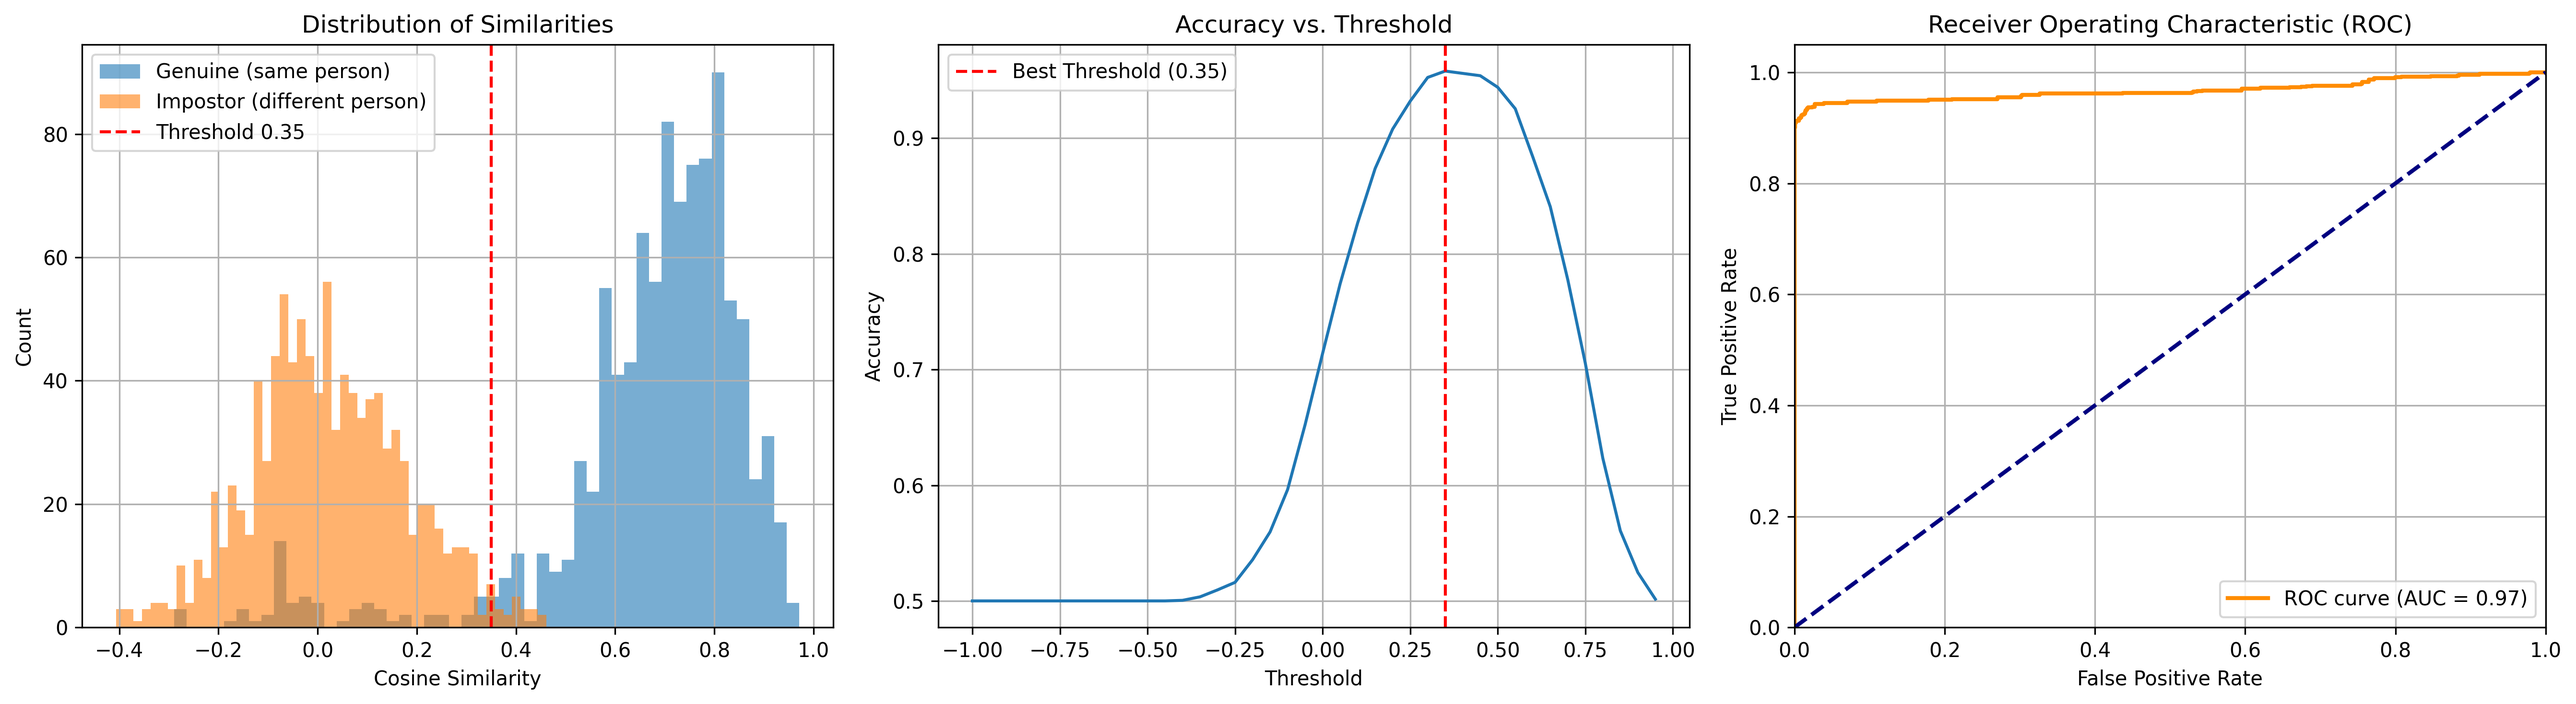
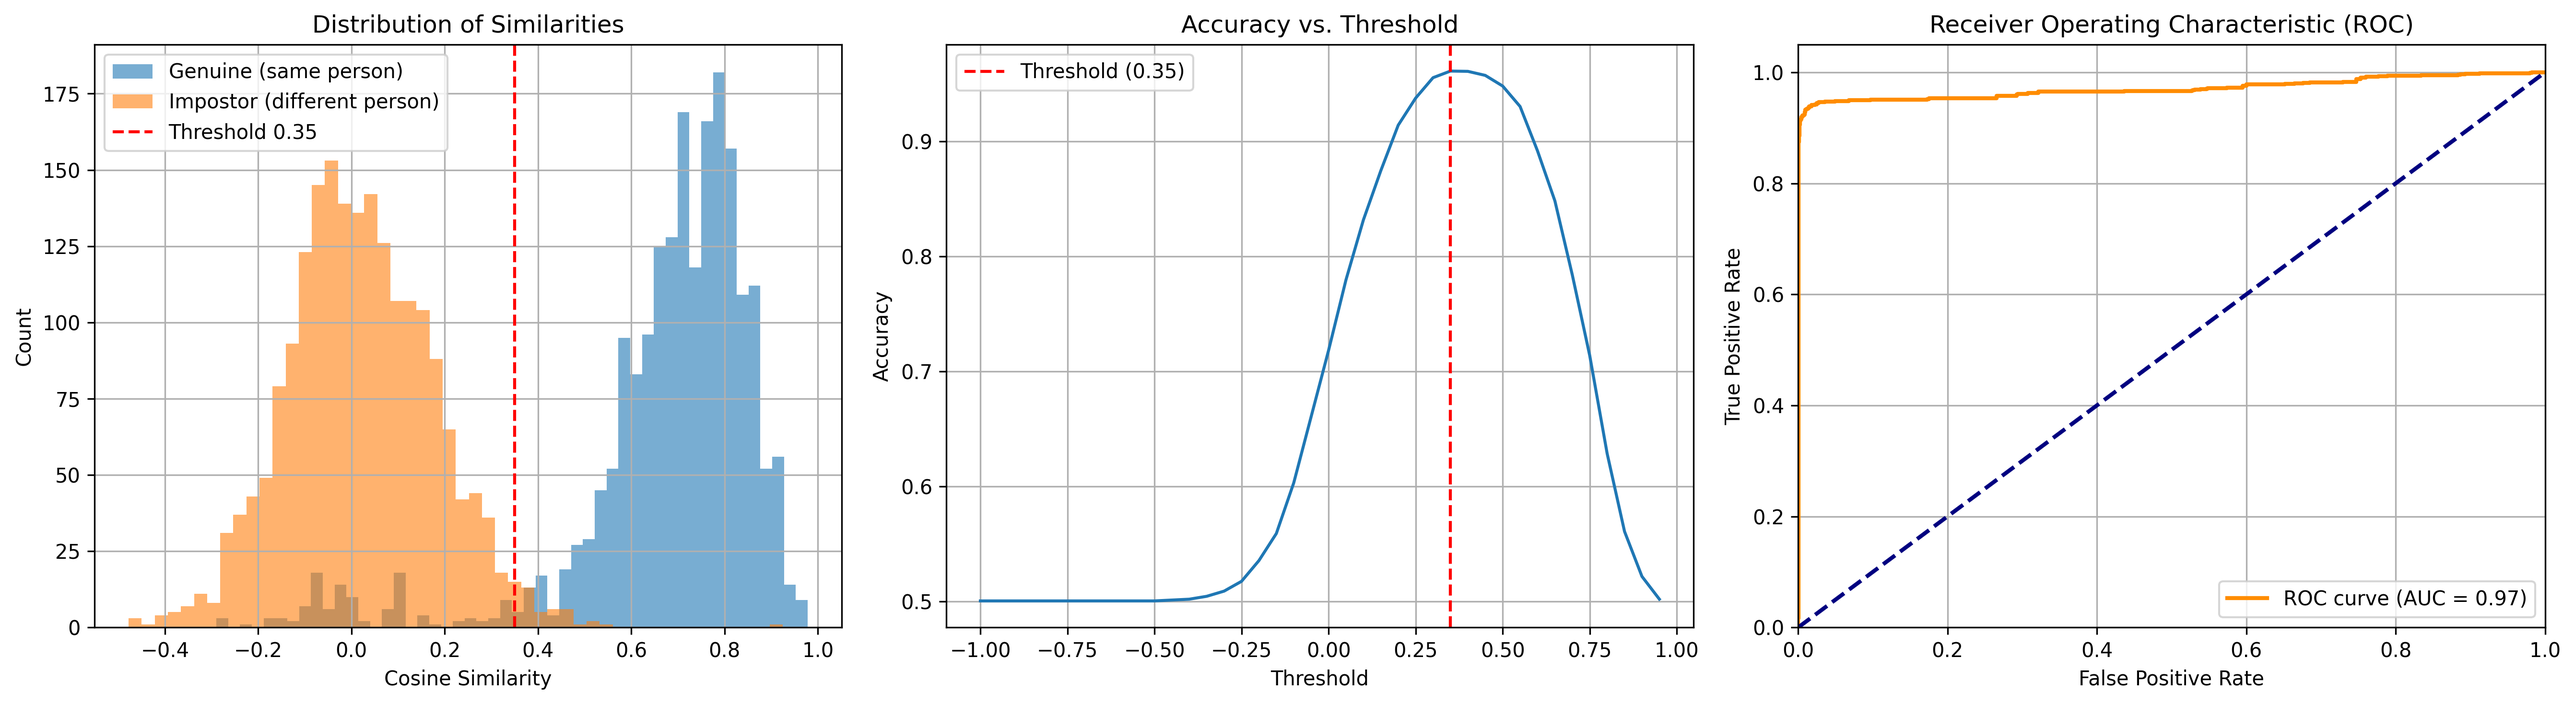
update model_eval

diff --git a/model_evaluation.py b/model_evaluation.py
@@ -157,7 +157,7 @@ def main():
     plt.xlabel('Threshold')
     plt.ylabel('Accuracy')
     plt.grid(True)
-    plt.axvline(x=best_threshold, color='r', linestyle='--', label=f'Best Threshold ({best_threshold:.2f})')
+    plt.axvline(x=best_threshold, color='r', linestyle='--', label=f'Threshold ({best_threshold:.2f})')
     plt.legend()
 
     # 2. ROC Curve
